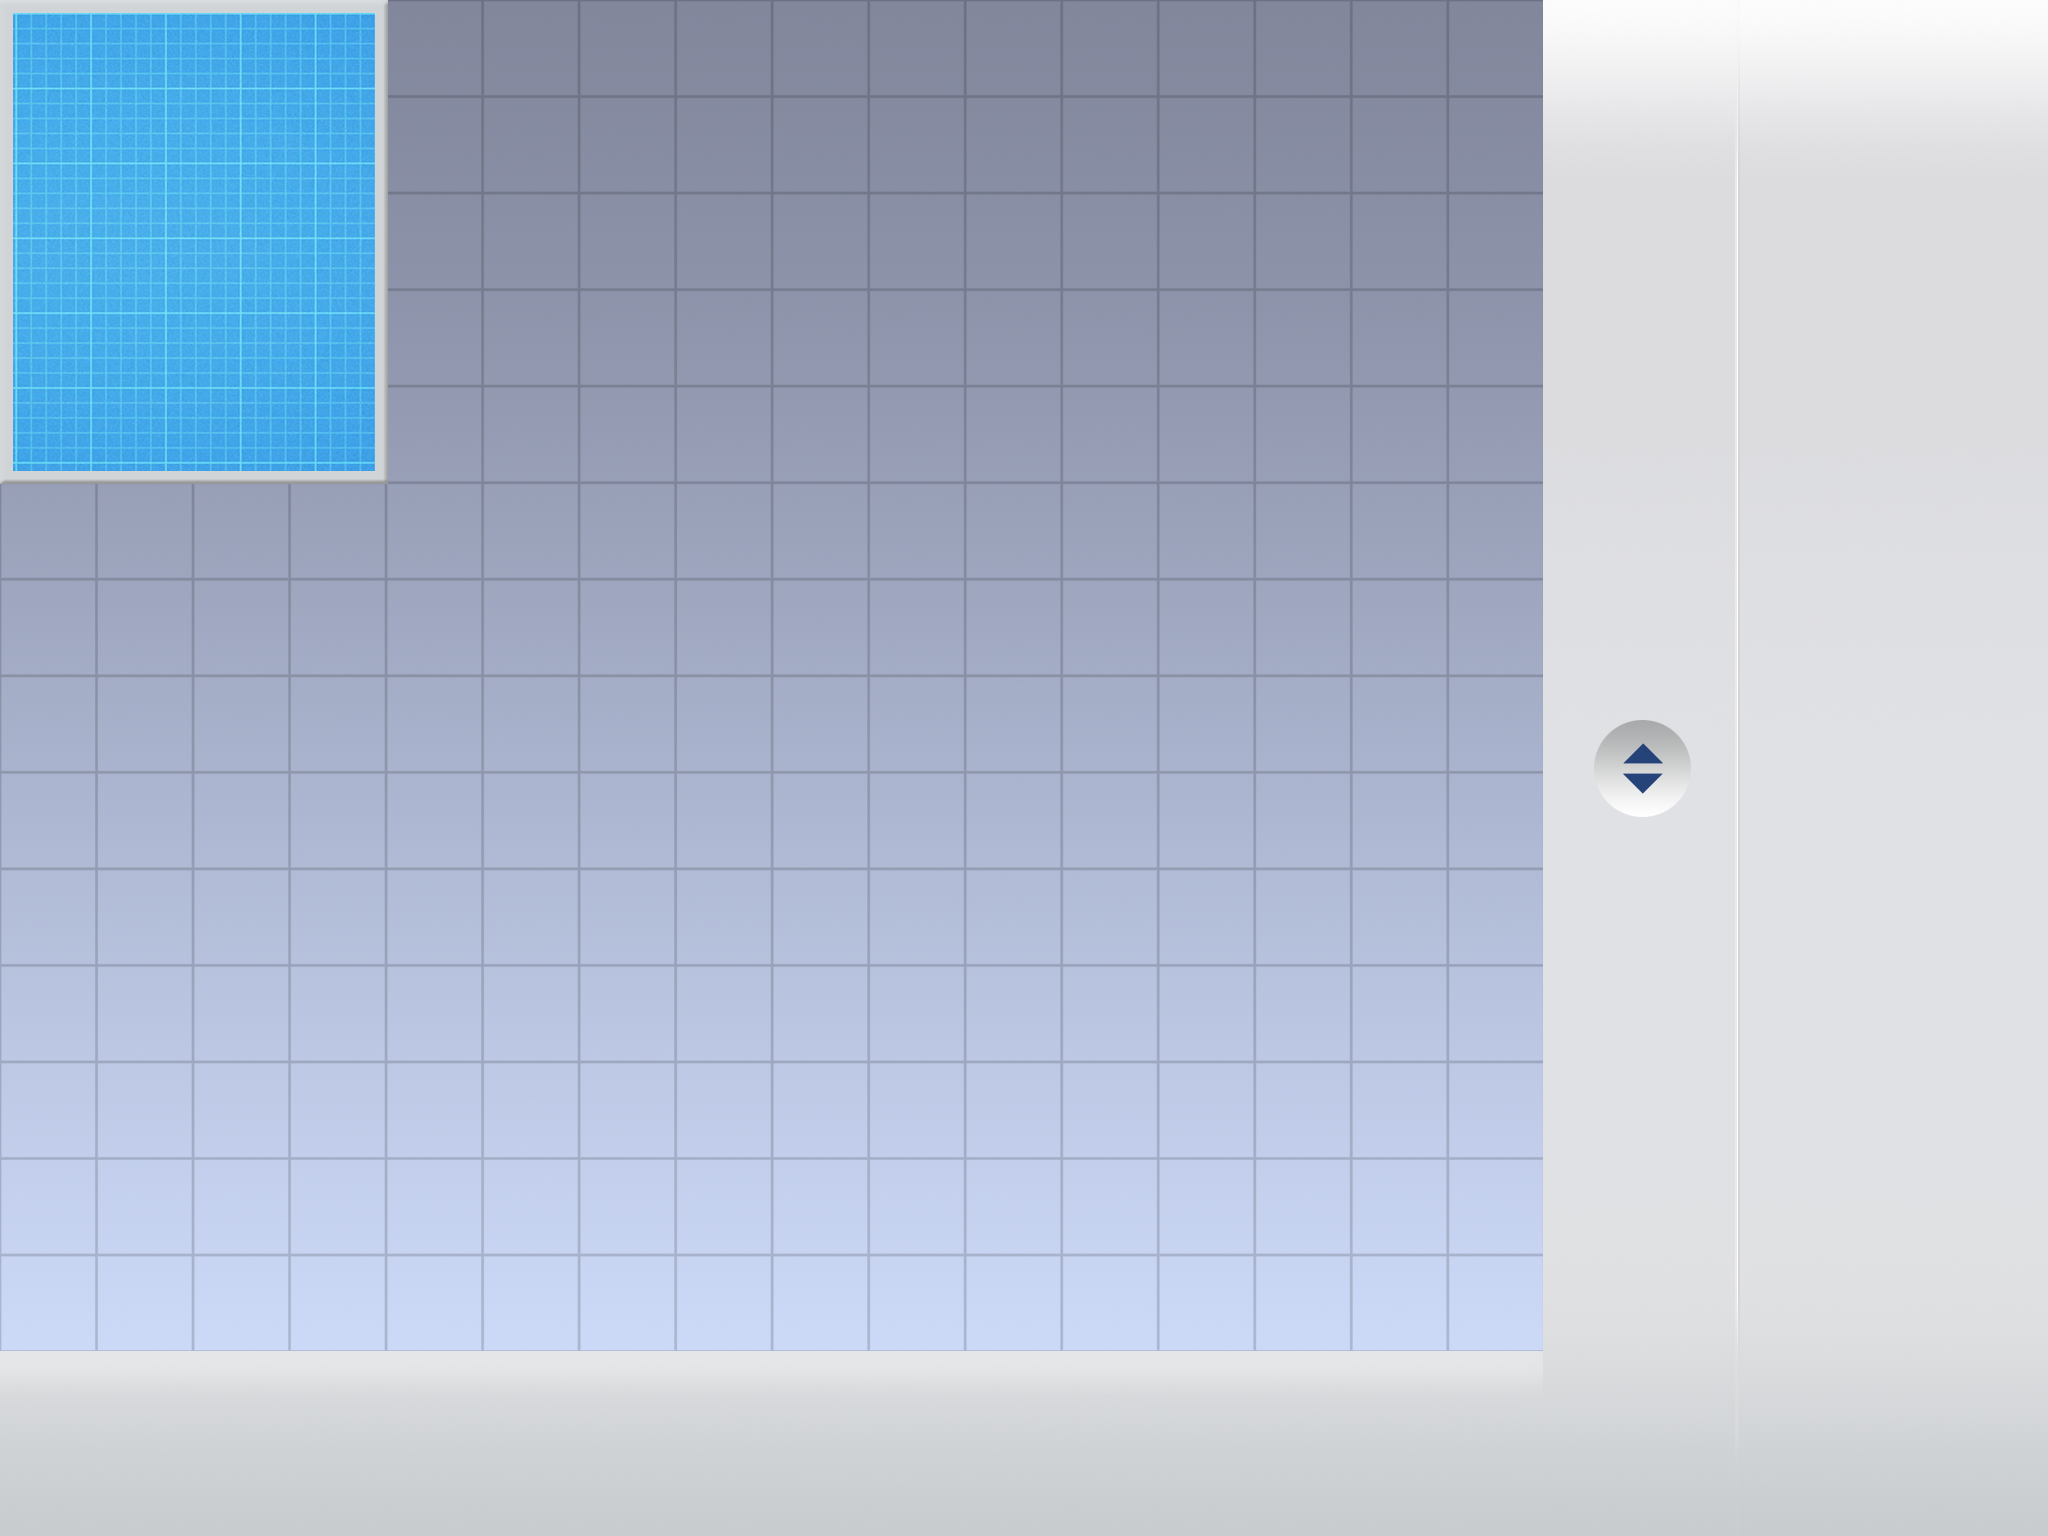
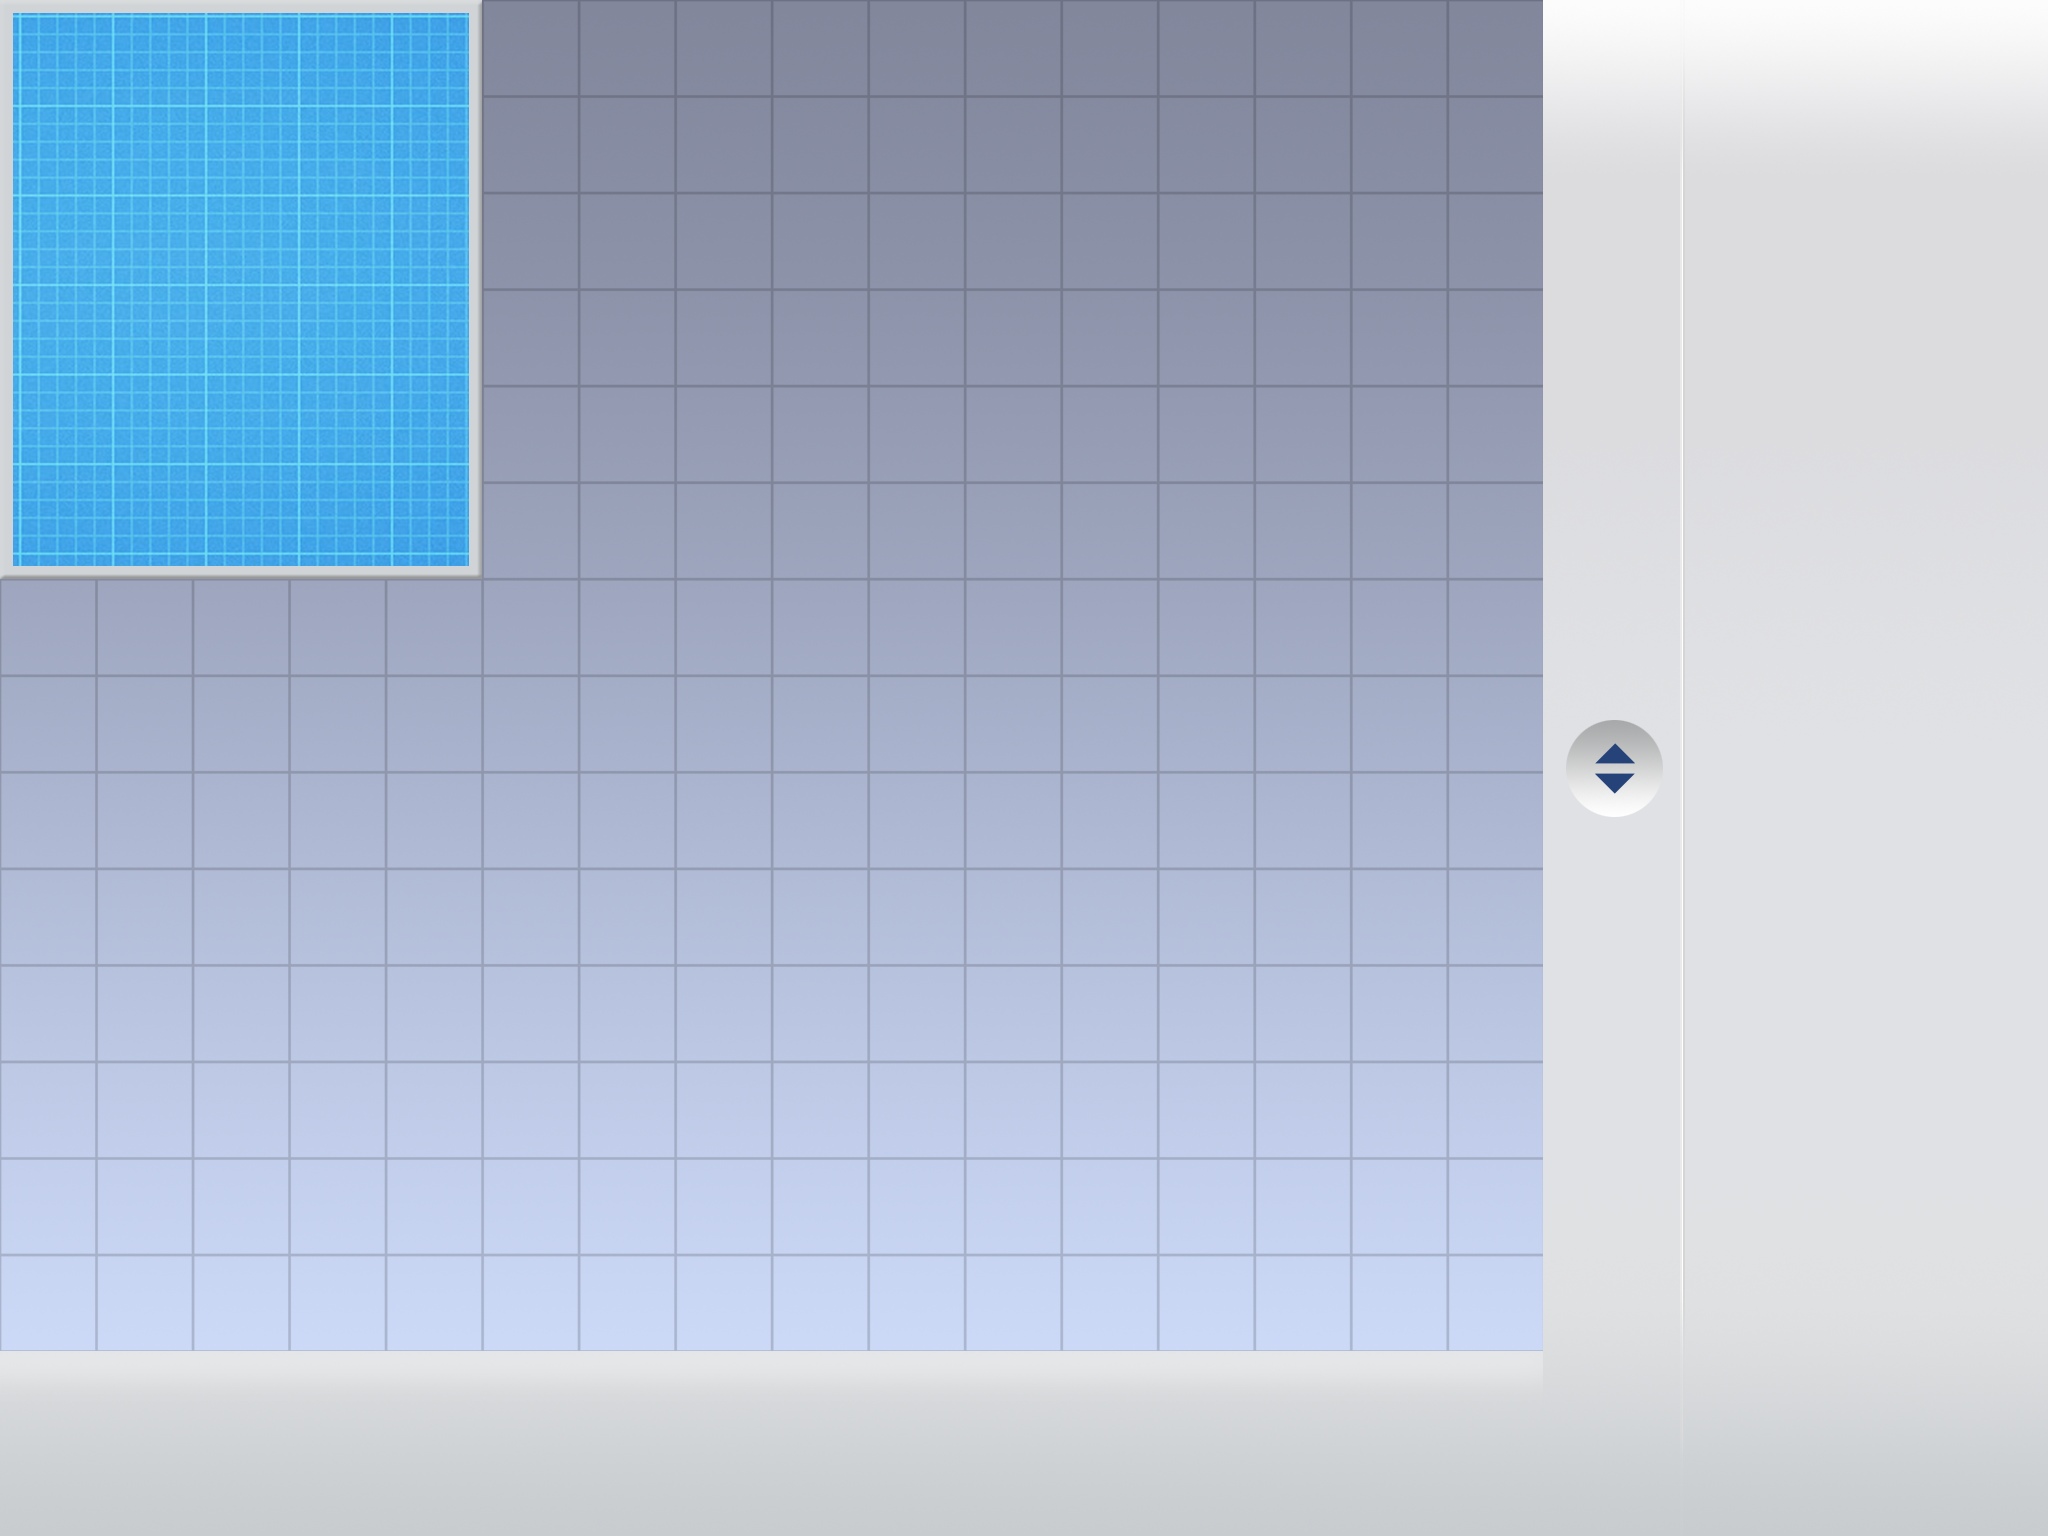
UI배경 사이즈 조절

Changed region(s): [[0.0, 0.0, 0.25, 0.375], [0.75, 0.4688, 0.8438, 0.5312]]

diff --git a/BlockGame/Assets/Plugins/BlockGame/Script/UISlider.cs b/BlockGame/Assets/Plugins/BlockGame/Script/UISlider.cs
@@ -13,7 +13,7 @@ namespace plugin_BlockGame
 
 		public void PushObject(GameObject obj)
 		{
-			obj.transform.localScale = new Vector3(3.5f, 3.5f, 3.5f);
+			obj.transform.localScale = new Vector3(4.5f, 3.5f, 3.5f);
 			listOfUI.Add(obj);
 		}
 
@@ -29,7 +29,7 @@ namespace plugin_BlockGame
 
 		public void BuildUI()
 		{
-			transform.localPosition = new Vector3(3.5f, 13.5f, -8.0f);
+			transform.localPosition = new Vector3(4.5f, 13.5f, -8.0f);
 			// 0 1 2 3 4 5 6 <- input
 			// 6 0 1 2 3 4 5 <- display
 			for ( int i = 0; i < listOfUI.Count; ++i )
@@ -129,7 +129,7 @@ namespace plugin_BlockGame
 				}
 				else
 				{
-					transform.localPosition = new Vector3(3.5f, 13.5f, -8.0f);
+					transform.localPosition = new Vector3(4.5f, 13.5f, -8.0f);
 				}
 			}
 		}
